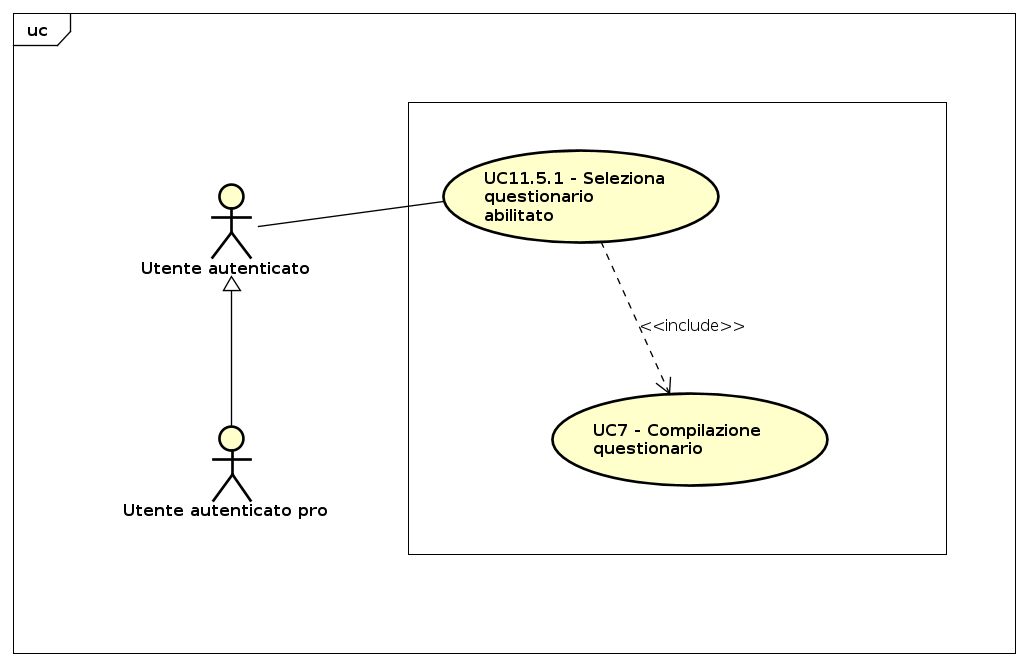
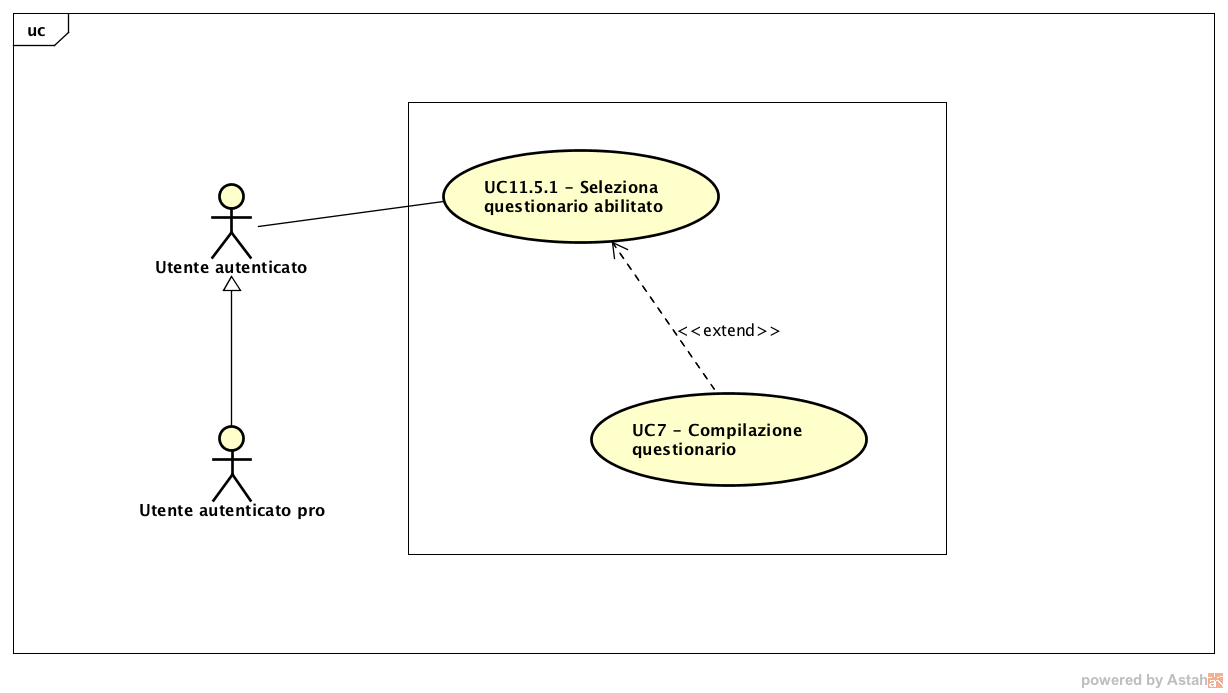
Sistemato errore "può seleziona (p.98) e cambiato inclusione con estensione

diff --git a/RR/AnalisiDeiRequisiti/sezioni/CasiD'uso/CasoD'usoUC11.tex b/RR/AnalisiDeiRequisiti/sezioni/CasiD'uso/CasoD'usoUC11.tex
@@ -95,7 +95,7 @@
 \item\textbf{Descrizione}: l'attore può visualizzare la lista dei questionari a cui è stato abilitato da parte dell'utente autenticato pro proprietario del questionario.
 \item\textbf{Precondizione}: l'attore si trova nella propria pagina utente e ha richiesto l'abilitazione ad un questionario e il proprietario l'ha accettata;
 \item\textbf{Postcondizione}: il sistema ha mostrato all'attore tutti i questionari a cui è stato abilitato;
-\item\textbf{Scenario principale}: l'attore può seleziona un questionario abilitato (UC11.5.1).
+\item\textbf{Scenario principale}: l'attore può selezionare un questionario abilitato (UC11.5.1).
 \end{itemize}
 
 \subsubsection{Caso d'uso UC11.5.1: Seleziona questionario abilitato}
@@ -104,7 +104,8 @@
 \item\textbf{Descrizione}: l'attore può selezionare un questionario a cui è stato abilitato e compilarlo;
 \item\textbf{Precondizione}: l'attore deve essere stato abilitato a compilare almeno un questionario;
 \item\textbf{Postcondizione}: l'attore ha selezionato un questionario a cui è stato abilitato;
-\item\textbf{Scenario principale}: l'attore seleziona un questionario a cui è stato abilitato.
+\item\textbf{Scenario principale}: l'attore seleziona un questionario a cui è stato abilitato;
+\item \textbf{Estensioni}: l'utente può compilare un questionario (UC7).
 \end{itemize}
 
 \subsubsection{Caso d'uso UC11.6: Collegamento Homepage}
